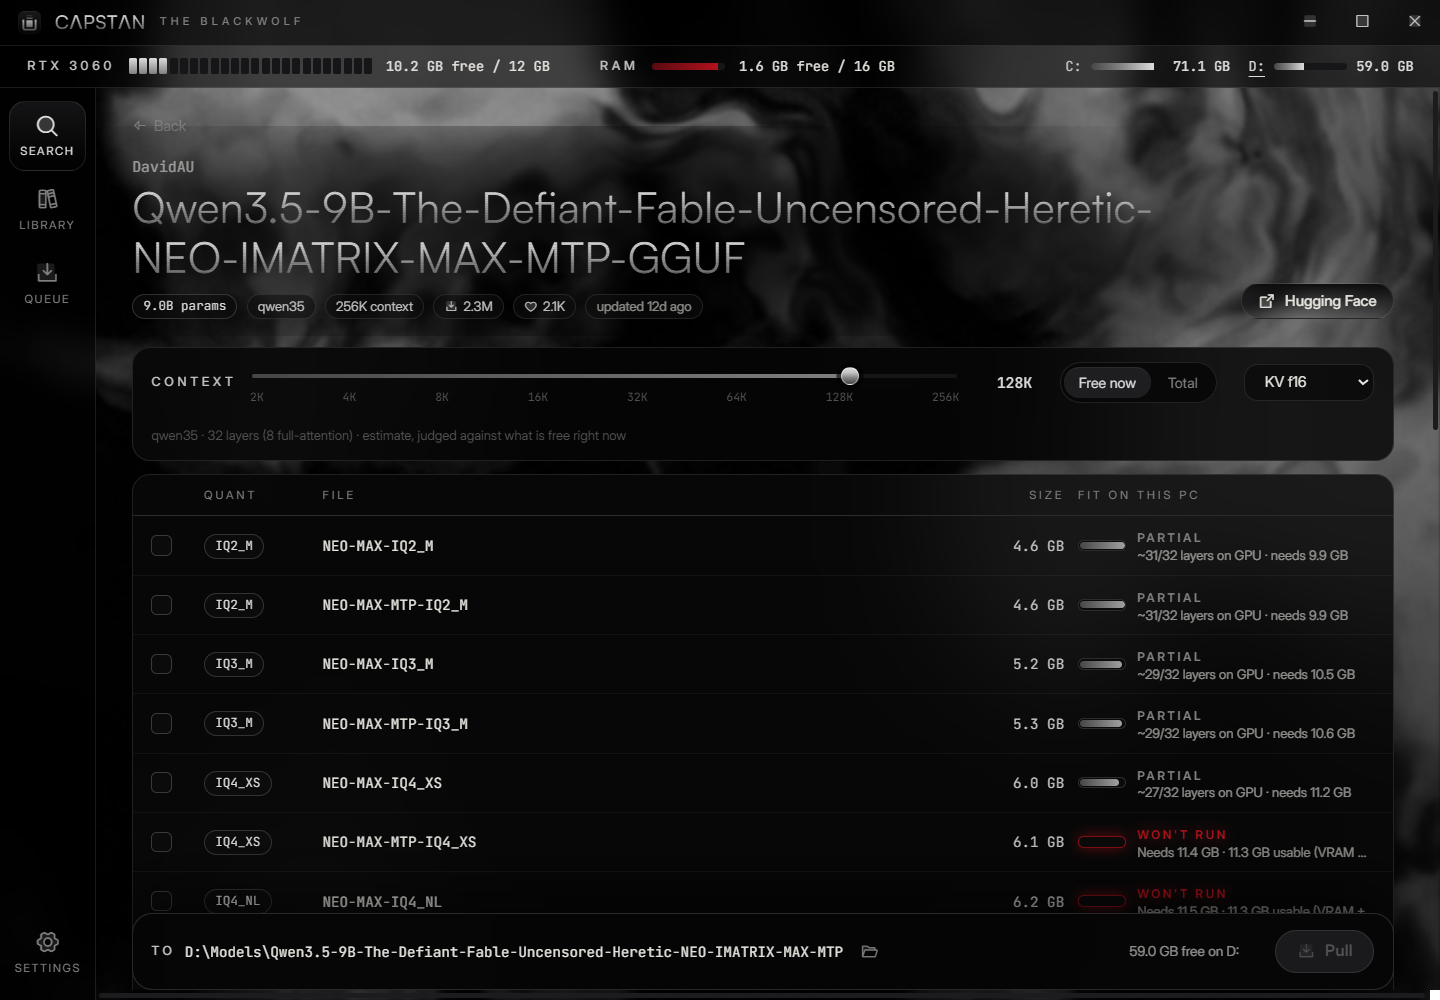
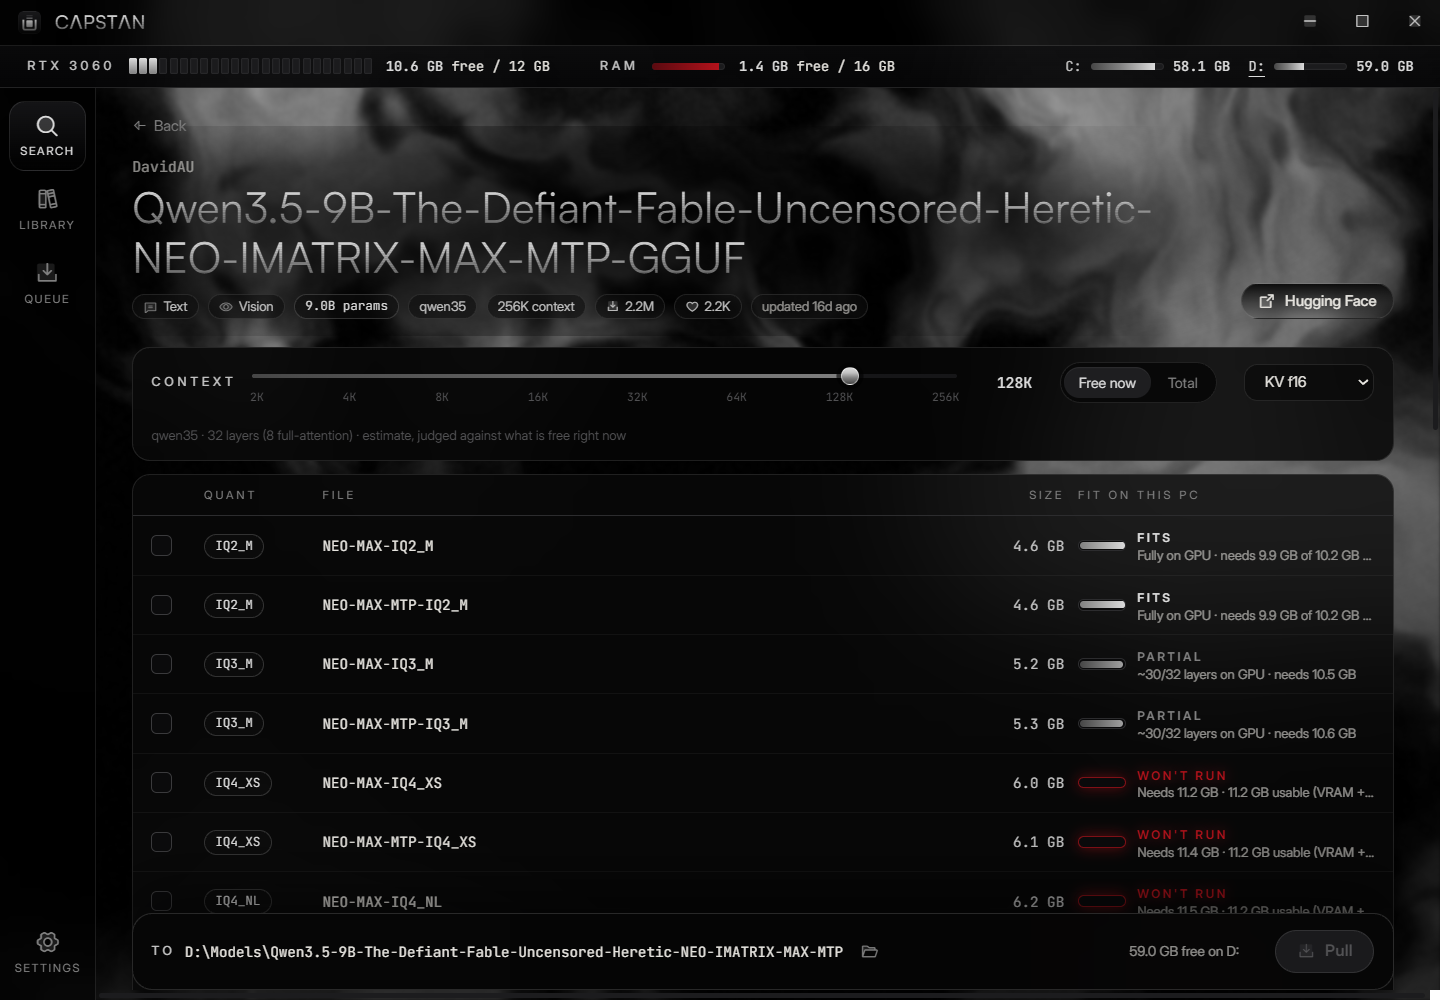
README: screenshots retaken from 1.5.1 (new title bar), Store badge 180px

diff --git a/README.md b/README.md
@@ -18,7 +18,7 @@
 </p>
 
 <p align="center">
-  <a href="https://apps.microsoft.com/detail/9PDMZQ06VL6B?mode=direct"><img src="https://get.microsoft.com/images/en-us%20dark.svg" width="200" alt="Get it from Microsoft"></a>
+  <a href="https://apps.microsoft.com/detail/9PDMZQ06VL6B?mode=direct"><img src="https://get.microsoft.com/images/en-us%20dark.svg" width="180" alt="Get it from Microsoft"></a>
 </p>
 
 <p align="center">
